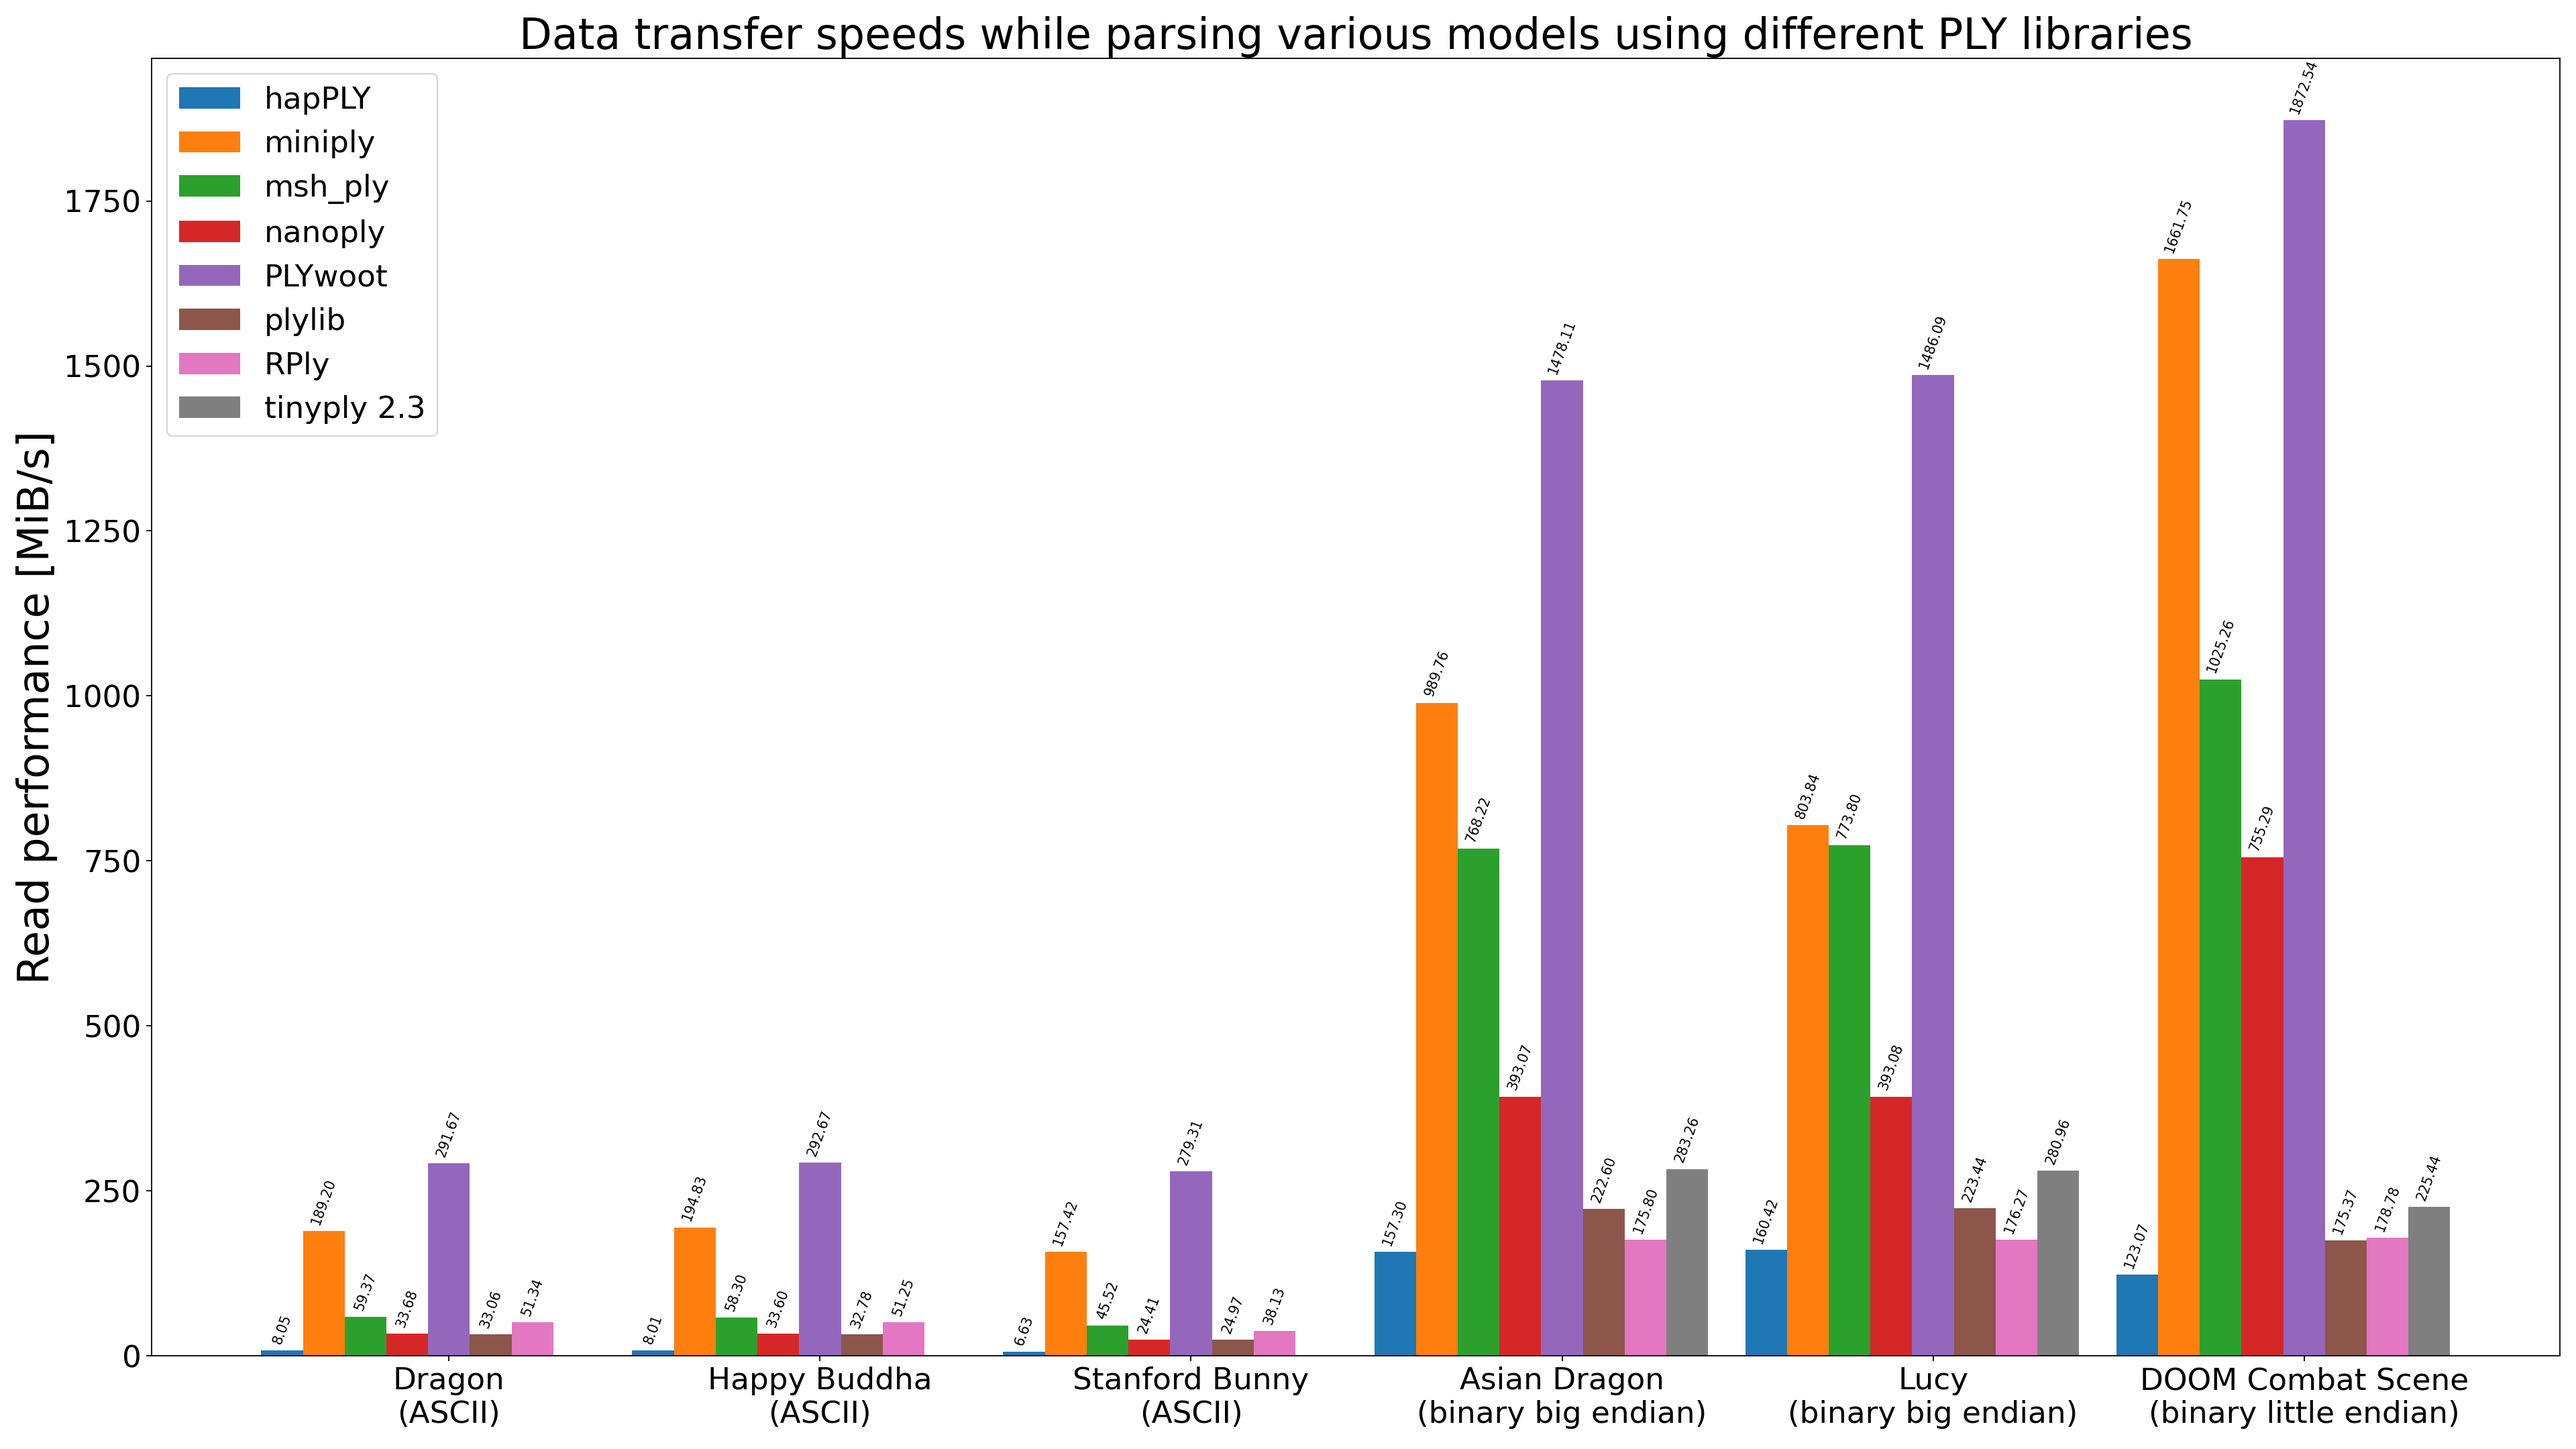
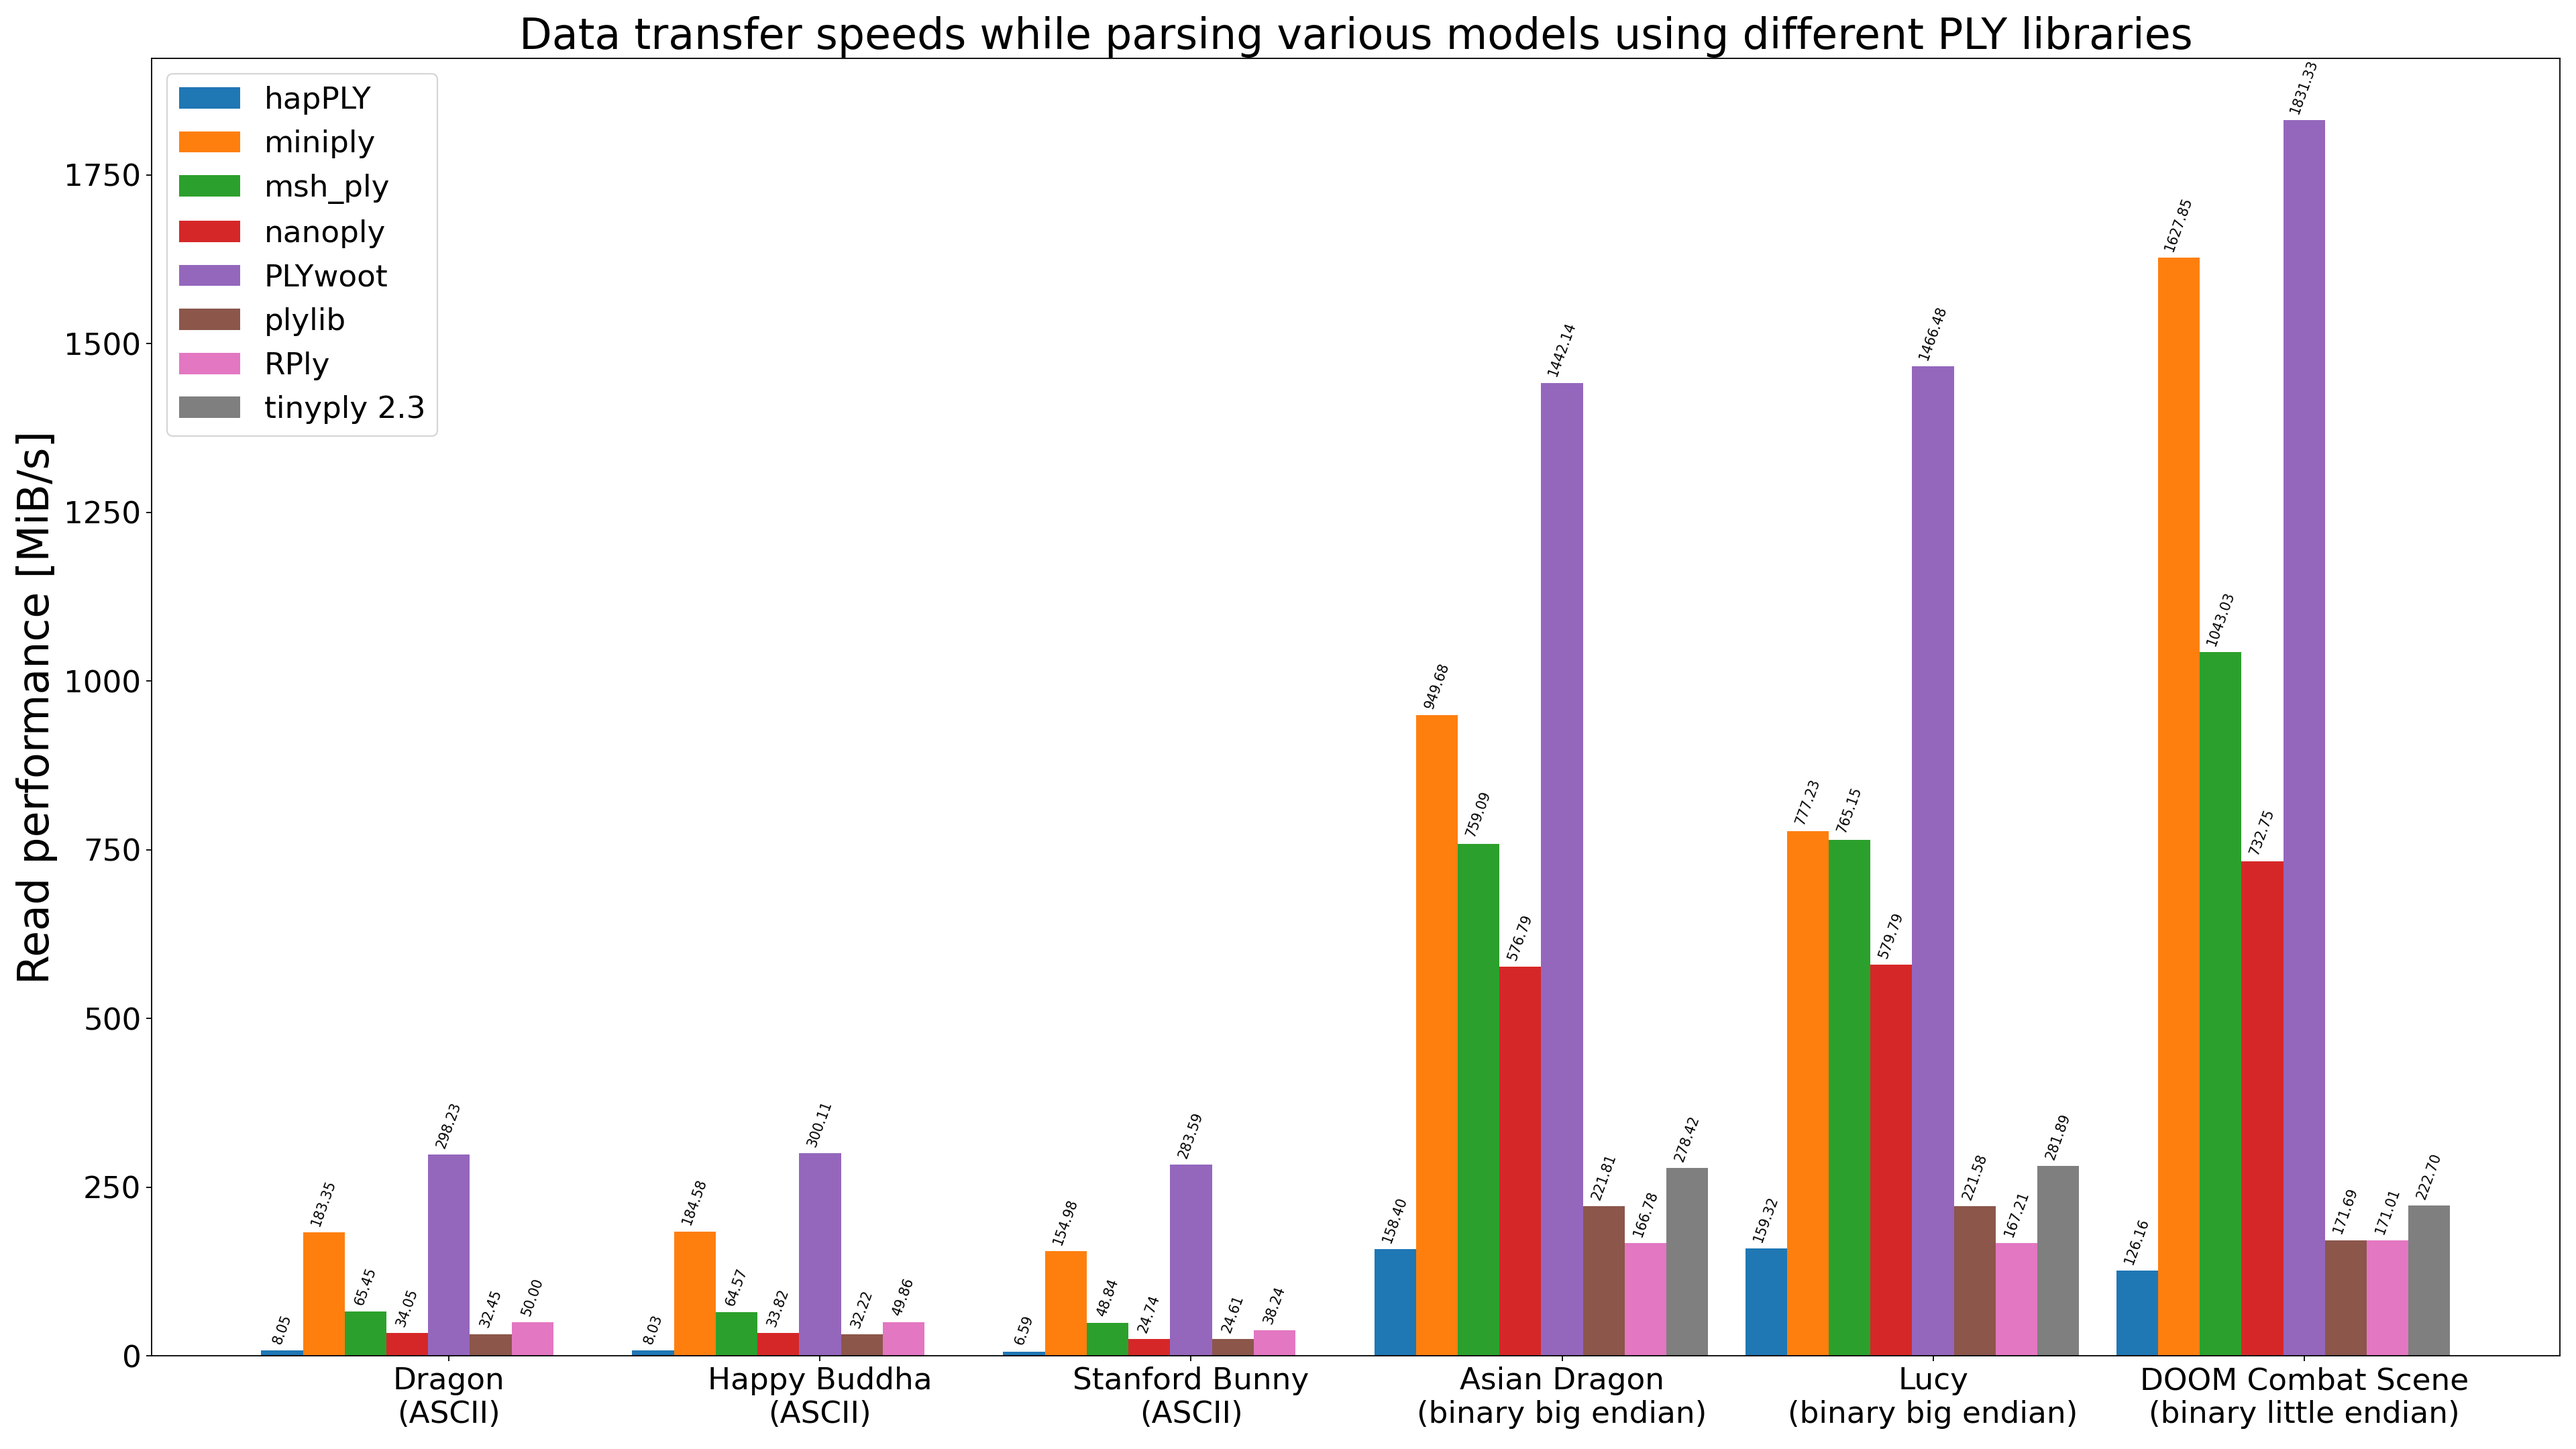
Compile benchmarks with `-DNDEBUG`

diff --git a/README.md b/README.md
@@ -47,13 +47,13 @@ The following lists the average relative read performance of each PLY library av
 | # | Library name                                                               | Overall        | ASCII          | Binary big endian | Binary little endian |
 |:-:|:--------------------------------------------------------------------------:|:--------------:|:--------------:|:-----------------:|:--------------------:|
 | 1 | [PLYwoot](https://github.com/ton/plywoot)                                  | *1.00*         | *1.00*         | *1.00*            | *1.00*               |
-| 2 | [miniply](https://github.com/vilya/miniply)                                | 1.69x slower   | 1.77x slower   | 1.85x slower      | 1.13x slower         |
-| 3 | [msh_ply](https://github.com/mhalber/msh)                                  | 3.87x slower   | 6.14x slower   | 1.92x slower      | 1.83x slower         |
-| 4 | [tinyply 2.3](https://github.com/ddiakopoulos/tinyply)                     | 6.29x slower   | N/A            | 5.29x slower      | 8.31x slower         |
-| 5 | [nanoply](https://github.com/cnr-isti-vclab/vcglib/tree/main/wrap/nanoply) | 7.12x slower   | 11.44x slower  | 3.78x slower      | 2.48x slower         |
-| 6 | [RPly](https://w3.impa.br/~diego/software/rply)                            | 8.28x slower   | 7.33x slower   | 8.43x slower      | 10.47x slower        |
-| 7 | [plylib](https://github.com/cnr-isti-vclab/vcglib/tree/main/wrap/ply)      | 9.48x slower   | 11.19x slower  | 6.65x slower      | 10.68x slower        |
-| 8 | [hapPLY](https://github.com/nmwsharp/happly)                               | 25.67x slower  | 42.16x slower  | 9.26x slower      | 15.22x slower        |
+| 2 | [miniply](https://github.com/vilya/miniply)                                | 1.72x slower   | 1.83x slower   | 1.89x slower      | 1.12x slower         |
+| 3 | [msh_ply](https://github.com/mhalber/msh)                                  | 3.70x slower   | 5.81x slower   | 1.92x slower      | 1.76x slower         |
+| 4 | [tinyply 2.3](https://github.com/ddiakopoulos/tinyply)                     | 6.21x slower   | N/A            | 5.20x slower      | 8.22x slower         |
+| 5 | [nanoply](https://github.com/cnr-isti-vclab/vcglib/tree/main/wrap/nanoply) | 6.69x slower   | 11.46x slower  | 2.53x slower      | 2.50x slower         |
+| 6 | [RPly](https://w3.impa.br/~diego/software/rply)                            | 8.48x slower   | 7.42x slower   | 8.77x slower      | 10.71x slower        |
+| 7 | [plylib](https://github.com/cnr-isti-vclab/vcglib/tree/main/wrap/ply)      | 9.63x slower   | 11.52x slower  | 6.62x slower      | 10.67x slower        |
+| 8 | [hapPLY](https://github.com/nmwsharp/happly)                               | 25.94x slower  | 43.05x slower  | 9.20x slower      | 14.52x slower        |
 
 
 The following graph plots average CPU time per model per PLY library (lower numbers are better):
@@ -70,15 +70,15 @@ The following lists the average relative write performance of each PLY library a
 
 | # | Library name                                                               | Overall        | ASCII          | Binary         |
 |:-:|:--------------------------------------------------------------------------:|:--------------:|:--------------:|:--------------:|
-| 1 | [PLYwoot](https://github.com/ton/plywoot)                                  | *1.00*         | *1.00*         | 1.04x slower   |
-| 2 | [msh_ply](https://github.com/mhalber/msh)                                  | 1.05x slower   | 1.13x slower   | *1.00*         |
-| 3 | [nanoply](https://github.com/cnr-isti-vclab/vcglib/tree/main/wrap/nanoply) | 1.77x slower   | 1.59x slower   | 2.01x slower   |
-| 4 | [RPly](https://w3.impa.br/~diego/software/rply)                            | 2.42x slower   | 1.03x slower   | 3.91x slower   |
-| 5 | [tinyply 2.3](https://github.com/ddiakopoulos/tinyply)                     | 2.53x slower   | 1.37x slower   | 3.78x slower   |
-| 6 | [hapPLY](https://github.com/nmwsharp/happly)                               | 4.25x slower   | 1.39x slower   | 7.26x slower   |
+| 1 | [msh_ply](https://github.com/mhalber/msh)                                  | *1.00*         | 1.11x slower   | *1.00*         |
+| 2 | [PLYwoot](https://github.com/ton/plywoot)                                  | 1.00x slower   | *1.00*         | 1.12x slower   |
+| 3 | [nanoply](https://github.com/cnr-isti-vclab/vcglib/tree/main/wrap/nanoply) | 1.67x slower   | 1.55x slower   | 1.97x slower   |
+| 4 | [RPly](https://w3.impa.br/~diego/software/rply)                            | 2.32x slower   | 1.03x slower   | 3.87x slower   |
+| 5 | [tinyply 2.3](https://github.com/ddiakopoulos/tinyply)                     | 2.38x slower   | 1.36x slower   | 3.66x slower   |
+| 6 | [hapPLY](https://github.com/nmwsharp/happly)                               | 4.06x slower   | 1.37x slower   | 7.19x slower   |
 
 
-The following graph plots average CPU time for writing a fixed triangle mesh with 100k semi-random triangles per PLY library (lower numbers are better):
+The following graph plots average CPU time for writing a fixed triangle mesh with 100.000 semi-random triangles per PLY library (lower numbers are better):
 
 ![Write CPU time](assets/write_cpu_time.png "Write CPU time")
 
